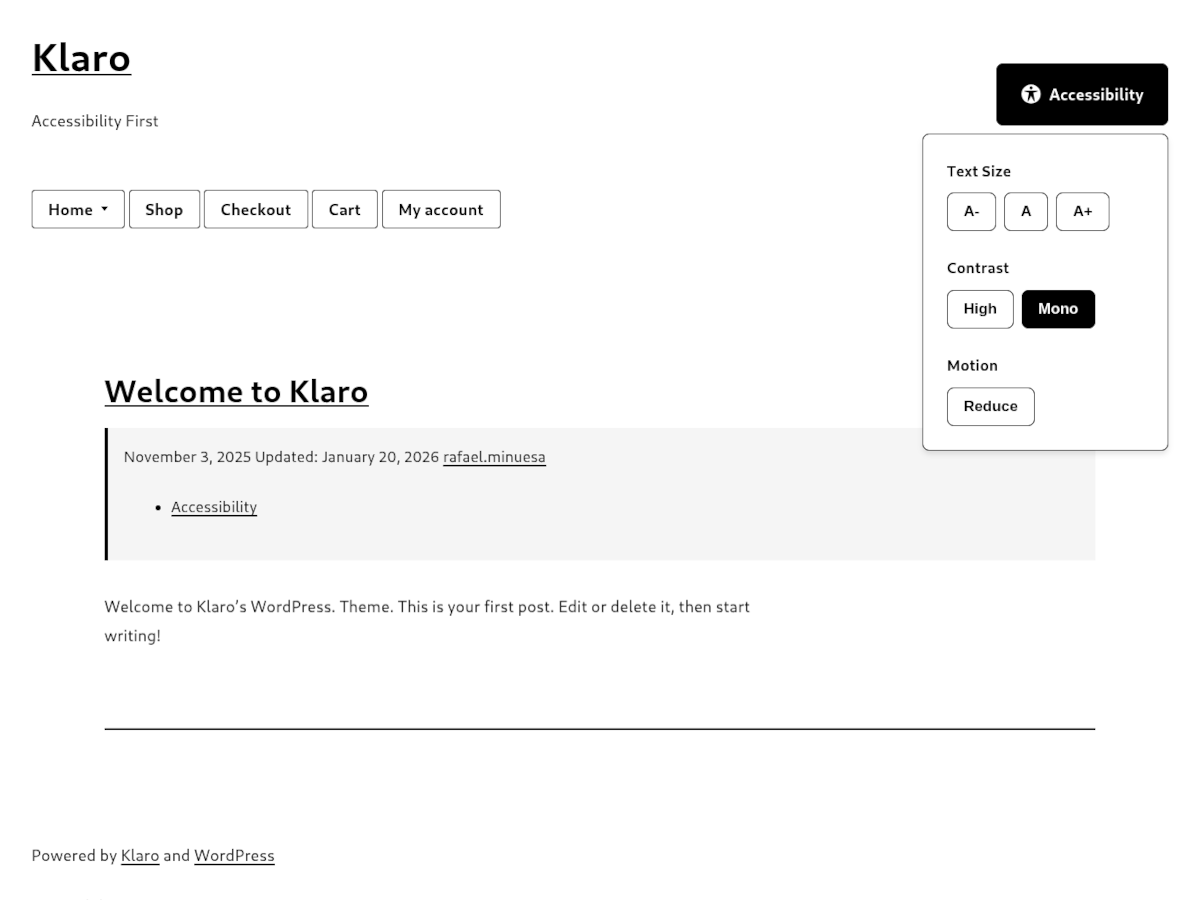
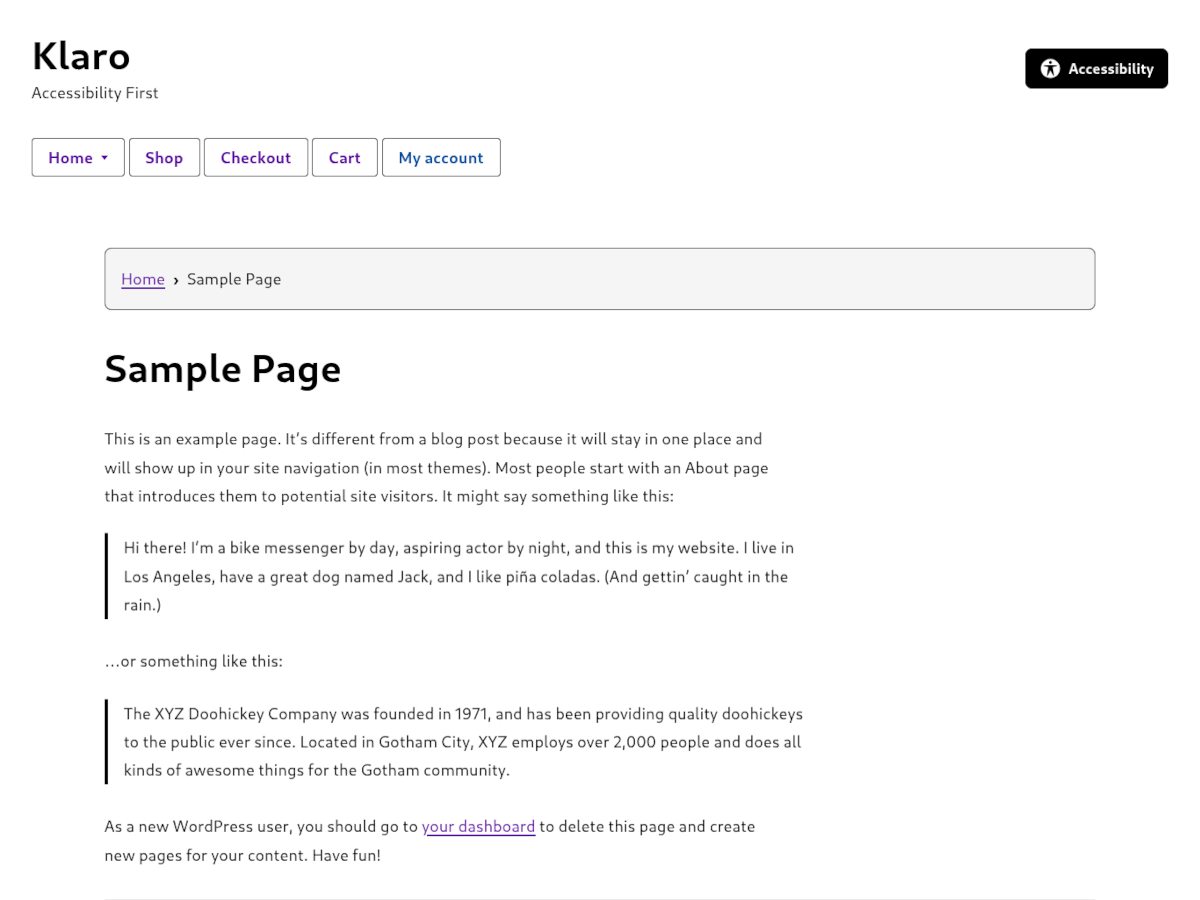
v2.0.8 Enhanced accessibility controls + WooCommerce focus
Accessibility Improvements:
- Add 5-level text size adjustment (18px, 20px, 22px, 26px, 32px)
- Refine accessibility toolbar padding and font sizes
- Handle legacy localStorage values for font size

Marketing/Description Updates:
- Highlight accessibility for browsing content
- Highlight accessibility for WooCommerce shopping
- Highlight accessibility for backend store management
- Empower users with disabilities to shop and manage stores independently

diff --git a/js/accessibility.js b/js/accessibility.js
@@ -46,10 +46,14 @@
         const body = document.body;
 
         // Apply font size to html element (root for rem units)
-        if (settings.fontSize === 'large') {
+        if (settings.fontSize === 'medium') {
+            html.classList.add('medium-text');
+        } else if (settings.fontSize === 'large') {
             html.classList.add('large-text');
         } else if (settings.fontSize === 'extra-large') {
             html.classList.add('extra-large-text');
+        } else if (settings.fontSize === 'maximum') {
+            html.classList.add('maximum-text');
         }
 
         // Apply contrast to body
@@ -83,22 +87,37 @@
         const resetBtn = document.getElementById('reset-font');
         const html = document.documentElement;
 
+        // Font size levels: normal (18px) → medium (20px) → large (22px) → extra-large (26px) → maximum (32px)
+        const fontSizeClasses = ['medium-text', 'large-text', 'extra-large-text', 'maximum-text'];
+
+        function clearFontClasses() {
+            fontSizeClasses.forEach(cls => html.classList.remove(cls));
+        }
+
         if (!increaseBtn || !decreaseBtn || !resetBtn) return;
 
         increaseBtn.addEventListener('click', () => {
             const settings = getSettings();
-
-            html.classList.remove('large-text', 'extra-large-text');
+            clearFontClasses();
 
             if (settings.fontSize === 'normal') {
+                html.classList.add('medium-text');
+                settings.fontSize = 'medium';
+                announceChange('Text size: medium (20px)');
+            } else if (settings.fontSize === 'medium') {
                 html.classList.add('large-text');
                 settings.fontSize = 'large';
-                announceChange('Text size increased to large');
+                announceChange('Text size: large (22px)');
             } else if (settings.fontSize === 'large') {
                 html.classList.add('extra-large-text');
                 settings.fontSize = 'extra-large';
-                announceChange('Text size increased to extra large');
+                announceChange('Text size: extra large (26px)');
+            } else if (settings.fontSize === 'extra-large') {
+                html.classList.add('maximum-text');
+                settings.fontSize = 'maximum';
+                announceChange('Text size: maximum (32px)');
             } else {
+                html.classList.add('maximum-text');
                 announceChange('Text size is already at maximum');
                 return;
             }
@@ -108,19 +127,30 @@
 
         decreaseBtn.addEventListener('click', () => {
             const settings = getSettings();
+            clearFontClasses();
 
-            html.classList.remove('large-text', 'extra-large-text');
-
-            if (settings.fontSize === 'extra-large') {
+            if (settings.fontSize === 'maximum') {
+                html.classList.add('extra-large-text');
+                settings.fontSize = 'extra-large';
+                announceChange('Text size: extra large (26px)');
+            } else if (settings.fontSize === 'extra-large') {
                 html.classList.add('large-text');
                 settings.fontSize = 'large';
-                announceChange('Text size decreased to large');
+                announceChange('Text size: large (22px)');
             } else if (settings.fontSize === 'large') {
+                html.classList.add('medium-text');
+                settings.fontSize = 'medium';
+                announceChange('Text size: medium (20px)');
+            } else if (settings.fontSize === 'medium') {
                 settings.fontSize = 'normal';
-                announceChange('Text size decreased to normal');
-            } else {
+                announceChange('Text size: normal (18px)');
+            } else if (settings.fontSize === 'normal' || !settings.fontSize) {
                 announceChange('Text size is already at minimum');
                 return;
+            } else {
+                // Handle any unknown/legacy values - reset to normal
+                settings.fontSize = 'normal';
+                announceChange('Text size: normal (18px)');
             }
 
             saveSettings(settings);
@@ -128,10 +158,10 @@
 
         resetBtn.addEventListener('click', () => {
             const settings = getSettings();
-            html.classList.remove('large-text', 'extra-large-text');
+            clearFontClasses();
             settings.fontSize = 'normal';
             saveSettings(settings);
-            announceChange('Text size reset to normal');
+            announceChange('Text size reset to normal (18px)');
         });
     }
 

diff --git a/style.css b/style.css
@@ -3,8 +3,8 @@ Theme Name: Klaro
 Theme URI: https://github.com/rafael-minuesa/klaro
 Author: Rafael Minuesa
 Author URI: https://github.com/rafael-minuesa
-Description: An uncompromisingly accessible WordPress theme. Klaro (Spanish/Portuguese for "clear/bright") prioritizes users with disabilities above all else, featuring WCAG AAA compliance, optimized screen reader support, and extensive customization options for visual, motor, and cognitive accessibility.
-Version: 2.0.7
+Description: An uncompromisingly accessible WordPress theme designed for everyone. Klaro (Spanish/Portuguese for "clear/bright") features WCAG AAA compliance, enabling users with disabilities to browse content, shop with WooCommerce, and manage their stores from the backend. Includes adjustable text sizes, high contrast modes, keyboard navigation, and screen reader optimization.
+Version: 2.0.8
 Requires at least: 6.0
 Tested up to: 6.9
 Requires PHP: 7.4
@@ -101,15 +101,29 @@ along with Klaro. If not, see http://www.gnu.org/licenses/gpl-2.0.html.
   --color-heading: #000000;
 }
 
+/* Medium Text Mode - Applied to html element */
+html.medium-text {
+  --font-size-base: 20px;
+  --line-height-base: 1.9;
+  font-size: 20px;
+}
+
 /* Large Text Mode - Applied to html element */
 html.large-text {
-  --font-size-base: 24px;
+  --font-size-base: 22px;
   --line-height-base: 2.0;
-  font-size: 24px;
+  font-size: 22px;
 }
 
 /* Extra Large Text Mode - Applied to html element */
 html.extra-large-text {
+  --font-size-base: 26px;
+  --line-height-base: 2.1;
+  font-size: 26px;
+}
+
+/* Maximum Text Mode - Applied to html element */
+html.maximum-text {
   --font-size-base: 32px;
   --line-height-base: 2.2;
   font-size: 32px;
@@ -524,14 +538,14 @@ a:not([href]) {
   display: flex;
   align-items: center;
   gap: var(--spacing-xs);
-  padding: var(--spacing-sm) var(--spacing-md);
+  padding: 0.4rem 0.85rem;
   background: var(--color-text);
   color: var(--color-background);
   border: 1px solid var(--color-text);
   border-radius: 8px;
   cursor: pointer;
   font-weight: 600;
-  font-size: 1rem;
+  font-size: 0.9rem;
   min-height: var(--touch-target-min);
   list-style: none;
 }
@@ -606,8 +620,8 @@ a:not([href]) {
 .accessibility-button {
   min-width: var(--touch-target-min);
   min-height: var(--touch-target-min);
-  padding: var(--spacing-xs) var(--spacing-sm);
-  font-size: 0.95rem;
+  padding: 0.25rem 0.6rem;
+  font-size: 0.85rem;
   font-weight: 600;
   color: var(--color-text);
   background-color: var(--color-background);

diff --git a/CHANGELOG.md b/CHANGELOG.md
@@ -7,6 +7,15 @@ and this project adheres to [Semantic Versioning](https://semver.org/spec/v2.0.0
 
 ## [Unreleased]
 
+## [2.0.8] - 2026-01-31
+
+### Added
+- **5-level text size adjustment** - More granular control: normal (18px), medium (20px), large (22px), extra-large (26px), maximum (32px)
+
+### Changed
+- **Accessibility toolbar UI** - Refined padding and font sizes for better visual balance
+- **Theme description** - Enhanced to highlight WooCommerce accessibility features for browsing, shopping, and store management
+
 ## [2.0.7] - 2026-01-30
 
 ### Fixed
